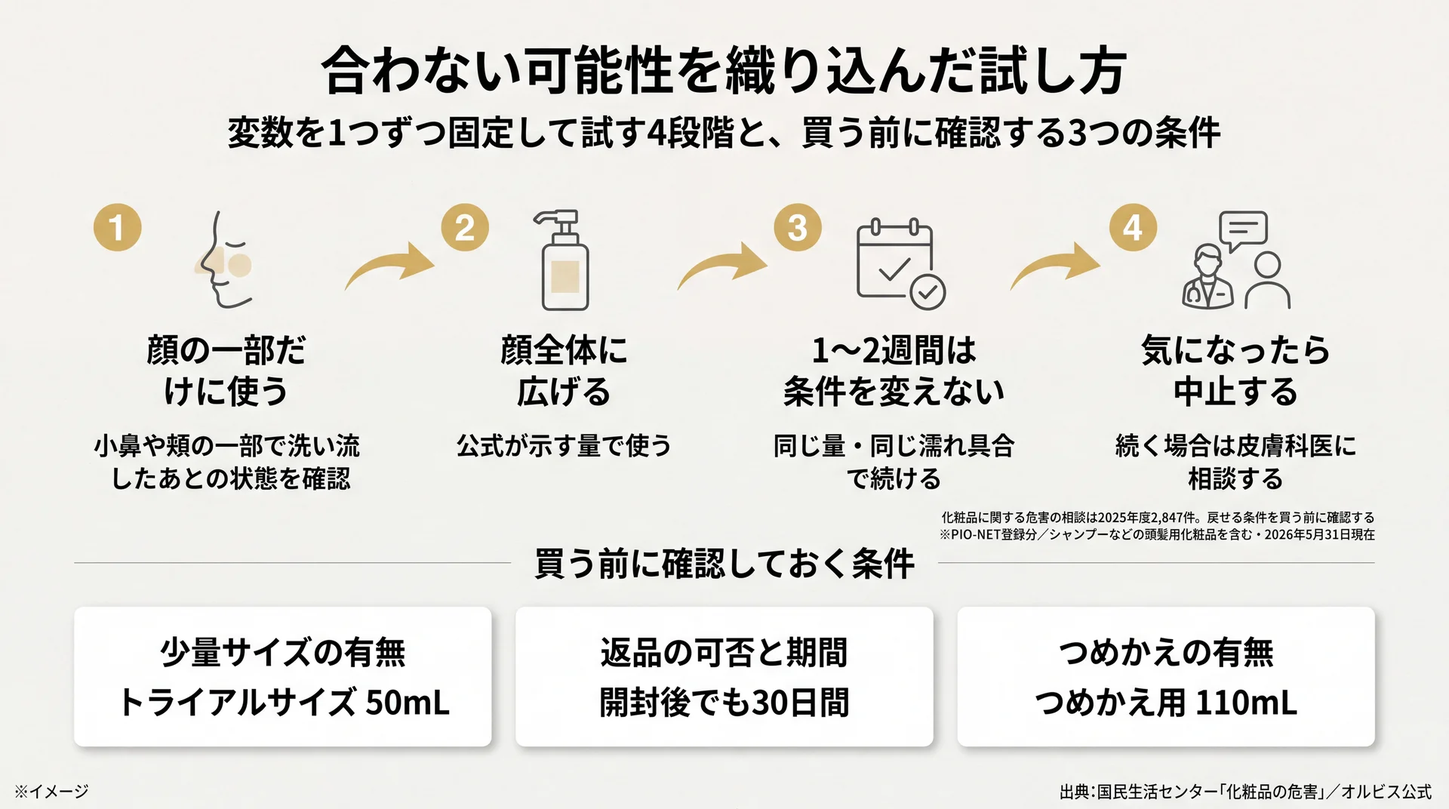
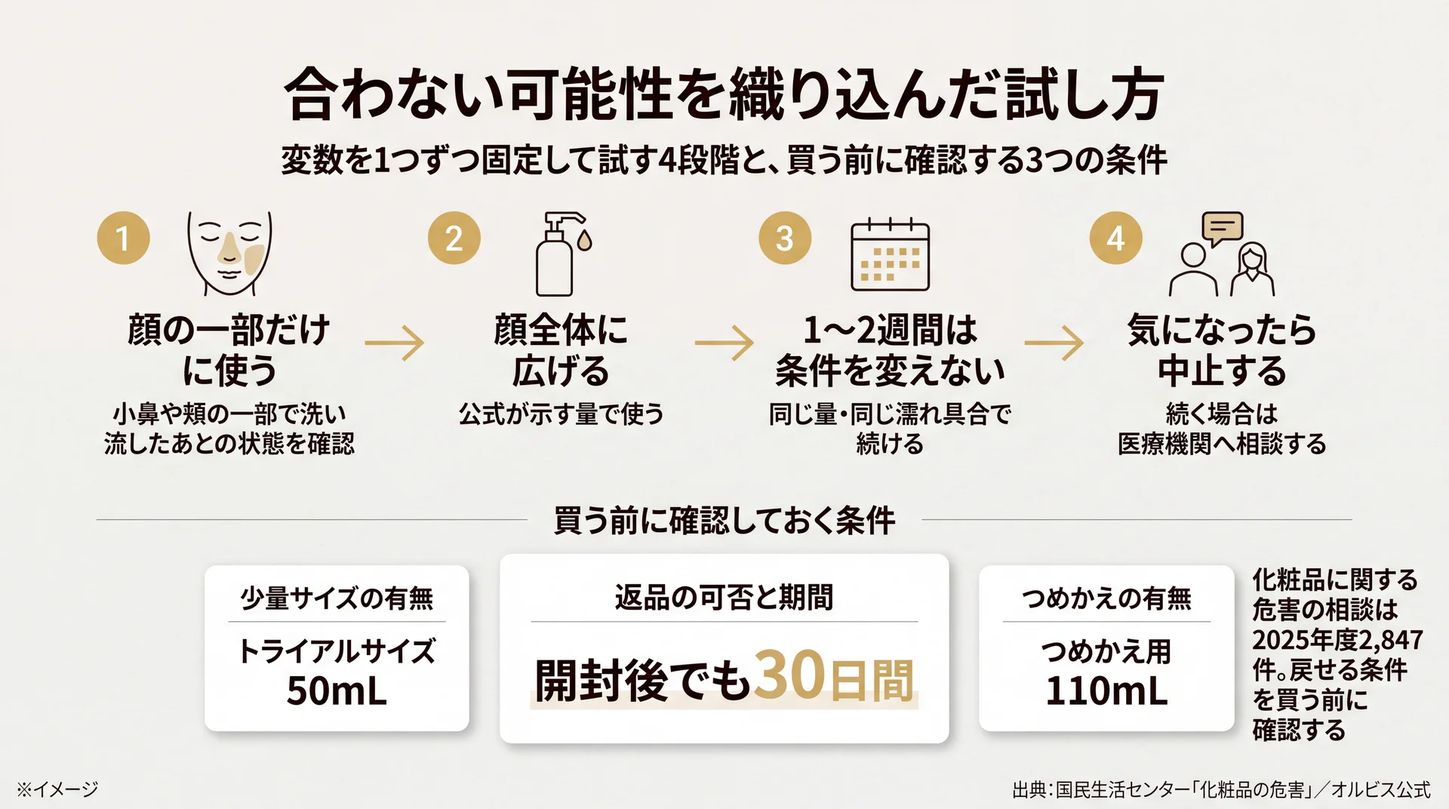
publish: orbis-cleansing-oil-pore-v3

diff --git a/2026/08/orbis-cleansing-oil-pore-v3.html b/2026/08/orbis-cleansing-oil-pore-v3.html
@@ -55,7 +55,7 @@
 .column-contact-block p{color:#fff;text-align:center;margin:24px 0;}
 .column-contact-block p:not(.btn-gra){font-size:20px;font-weight:700;line-height:1.5;}
 </style><h1 style="font-size:32px; font-weight:700; margin:24px 0 16px; padding-bottom:10px; border-bottom:1px solid #eaeef2; line-height:1.3;">毛穴悩み別クレンジングの選び方｜黒ずみ・開き・詰まりで変わる基準</h1>
-<p style="margin:14px 0; line-height:1.7;">毛穴が気になるときのクレンジングは、<strong>目立ち方のタイプ・剤形・使う量</strong>の3点で選び分けます。洗浄力の強さだけを基準にすると、同じ迷いの繰り返しになりがちです。この記事では、オルビス ザ クレンジング オイルを手がける立場から、自分で選び分けられる基準を順に整理します。</p>
+<p style="margin:14px 0; line-height:1.7;">毛穴が気になるときのクレンジングは、<strong>目立ち方のタイプ・剤形・使う量</strong>の3点で選び分けます。洗浄力の強さだけを基準にすると、同じ迷いを繰り返しやすくなります。この記事では、オルビス ザ クレンジング オイルを手がける立場から、自分で選び分けられる基準を順に整理します。</p>
 <!-- wp:group {"style":{"border":{"radius":"16px","color":"#E4C06C","style":"solid","width":"1px"},"spacing":{"padding":{"top":"24px","right":"20px","bottom":"24px","left":"20px"}}},"layout":{"type":"constrained"}} -->
 <div class="wp-block-group has-border-color" style="border-color:#E4C06C;border-style:solid;border-width:1px;border-radius:16px;padding-top:24px;padding-right:20px;padding-bottom:24px;padding-left:20px">
 <!-- wp:paragraph {"align":"center","style":{"typography":{"fontWeight":"700"}}} -->
@@ -71,9 +71,9 @@
 <!-- /wp:buttons -->
 </div>
 <!-- /wp:group --><h2 style="font-size:24px; font-weight:600; margin:32px 0 16px; padding-bottom:8px; border-bottom:1px solid #eaeef2; line-height:1.3;">毛穴の目立ち方は3タイプ｜まず自分がどれかを見立てる</h2>
-<p style="margin:14px 0; line-height:1.7;"><img src="https://shun-toda.github.io/html-publish/2026/08/orbis-cleansing-oil-pore-v3/h2_01_%E6%AF%9B%E7%A9%B4_3%E3%82%BF%E3%82%A4%E3%83%97.webp" alt="明るい場所での見え方と洗った直後の指先の感触の2問で、黒ずみ・開き・詰まりの3タイプと第一優先の軸に振り分ける判定フロー図" loading="lazy" style="max-width:100%; height:auto; display:block; margin:16px auto; border-radius:6px;" /><br><em>2つの手がかりで自分のタイプと優先すべき軸が決まる（当社整理）＊イメージ</em></p>
+<p style="margin:14px 0; line-height:1.7;"><img src="https://shun-toda.github.io/html-publish/2026/08/orbis-cleansing-oil-pore-v3/h2_01_%E6%AF%9B%E7%A9%B4_3%E3%82%BF%E3%82%A4%E3%83%97.webp" alt="明るい場所での見え方と洗った直後の指先の感触の2問で、黒ずみ・開き・詰まりの3タイプと第一優先の軸に振り分ける判定フロー図" loading="lazy" style="max-width:100%; height:auto; display:block; margin:16px auto; border-radius:6px;" /><br><em>2つの手がかりで自分のタイプと優先すべき軸が決まる（当社整理）</em></p>
 <p style="margin:14px 0; line-height:1.7;">毛穴の目立ち方は、<strong>色が濃く見える／影で凹んで見える／触るとざらつく</strong>の3つに分けて見立てます。同じ「毛穴が気になる」でも、見えている状態が違えばクレンジングに求める働きも変わります。見立ての手がかりは、明るい場所での見え方と、洗った直後の指先の感触の2つです。</p>
-<p style="margin:14px 0; line-height:1.7;">毛穴の種類を知っただけでは、選ぶ基準までは決まりません。選び直しても変化を感じられない状態が続くとき、ずれているのは製品そのものより「どのタイプに向けた一本を選んだか」のほうです。まずは3つのどれに当てはまるかを決めてから、選択の話に進んでください。</p>
+<p style="margin:14px 0; line-height:1.7;">上位の比較記事の多くは、毛穴の種類を並べたあとすぐに製品の紹介へ移ります。ただ、選び直しても変化を感じられない状態が続くとき、原因は製品そのものより「どのタイプに向けた一本を選んだか」がずれていることにあります。まずは3つのどれに当てはまるかを決めてから、選択の話に進んでください。</p>
 <div style="overflow-x:auto; margin:18px 0;"><table style="border-collapse:collapse; width:100%; font-size:14px;">
 <thead style="background:#f6f8fa;">
 <tr>
@@ -113,7 +113,7 @@
 <p style="margin:14px 0; line-height:1.7;">洗顔後に小鼻や顎を指の腹でなでたとき、細かい引っかかりを感じる状態です。見た目より触感で先に気づくことが多く、色の濃さと併発している場合もあります。</p>
 <p style="margin:14px 0; line-height:1.7;">このタイプでは、洗浄力の強さそのものより「どのくらいの頻度で、どの工程に役割を持たせるか」の設計が結果を左右します。必要な洗浄の水準と頻度の考え方は、<a href="/column/tsumari-keana-cleansing/" style="color:#0969da; text-decoration:none; border-bottom:1px solid #eaeef2;">詰まり毛穴に必要な洗浄力と頻度の考え方</a>で扱っているため、本記事では選択軸の話に絞ります。</p>
 <h2 style="font-size:24px; font-weight:600; margin:32px 0 16px; padding-bottom:8px; border-bottom:1px solid #eaeef2; line-height:1.3;">タイプ別に見るクレンジングの選択軸</h2>
-<p style="margin:14px 0; line-height:1.7;">タイプが変われば、優先すべき軸も入れ替わります。<strong>色が濃く見えるなら汚れとのなじみやすさ、影で凹んで見えるならうるおい保持、ざらつくなら工程の分担</strong>が第一優先です。同じ「毛穴*1に向く一本」でも、この順番が違えば選ぶ剤形は変わります。</p>
+<p style="margin:14px 0; line-height:1.7;">タイプが変われば、優先すべき軸も入れ替わります。<strong>色が濃く見えるなら汚れとのなじみやすさ、影で凹んで見えるならうるおい保持、ざらつくなら工程の分担</strong>が第一優先になります。同じ「毛穴*1に向く一本」でも、この順番が違えば選ぶ剤形は変わります。</p>
 <div style="overflow-x:auto; margin:18px 0;"><table style="border-collapse:collapse; width:100%; font-size:14px;">
 <thead style="background:#f6f8fa;">
 <tr>
@@ -145,7 +145,7 @@
 <p style="margin:14px 0; line-height:1.7;">汚れの正体そのもの（メイク・皮脂・古い角質のどれが主か）で落とし方を分ける考え方は、<a href="/column/keana-yogore-cleansing/" style="color:#0969da; text-decoration:none; border-bottom:1px solid #eaeef2;">毛穴汚れの正体ごとに落とし方がどう変わるか</a>にまとめています。</p>
 <h3 style="font-size:20px; font-weight:600; margin:24px 0 12px; line-height:1.3;">色が濃く見えるときの選択軸</h3>
 <p style="margin:14px 0; line-height:1.7;">油性の汚れとなじみやすい剤形を優先します。メイクや日焼け止めは油分を含むため、水性の剤形では表面に残りやすく、<strong>残った状態でこすると別の負担が増えます</strong>。</p>
-<p style="margin:14px 0; line-height:1.7;">一方で、なじみやすさだけを追いかけると洗い上がりが乾きやすくなりがちです。オルビスは、なじみやすさと洗い上がりのどちらかを我慢する構図こそ避けるべきだと考えています。成分の観点からの絞り込みは、<a href="/column/kurozumi-keana-cleansing/" style="color:#0969da; text-decoration:none; border-bottom:1px solid #eaeef2;">黒ずみが気になるときにクレンジングで見るべき成分軸</a>で詳しく扱っています。</p>
+<p style="margin:14px 0; line-height:1.7;">一方で、なじみやすさだけを追いかけると洗い上がりが乾きやすくなります。オルビスは、なじみやすさと洗い上がりのどちらかを我慢する構図こそ避けるべきだと考えています。成分の観点からの絞り込みは、<a href="/column/kurozumi-keana-cleansing/" style="color:#0969da; text-decoration:none; border-bottom:1px solid #eaeef2;">黒ずみが気になるときにクレンジングで見るべき成分軸</a>で詳しく扱っています。</p>
 <h3 style="font-size:20px; font-weight:600; margin:24px 0 12px; line-height:1.3;">影で凹んで見えるときの選択軸</h3>
 <p style="margin:14px 0; line-height:1.7;">うるおい保持を第一に置きます。<span style="background:linear-gradient(transparent 60%,#FFFF00 60%)"><strong>このタイプで洗浄力を上げても、見え方の改善につながりにくい</strong></span>ためです。</p>
 <p style="margin:14px 0; line-height:1.7;">見るべきは「洗い上がりに乾きを感じにくいか」「広げるときに指が引っかからないか」の2点になります。テクスチャーが硬く、肌の上で伸ばすのに力が要るものは、こすらずに扱うのが難しくなります。手に取ったときに軽く広がるかどうかを、店頭や少量サイズで確かめてから決めてください。</p>
@@ -153,8 +153,8 @@
 <p style="margin:14px 0; line-height:1.7;">クレンジング1本にすべてを担わせず、<strong>洗顔工程との役割分担</strong>で考えます。1回あたりの洗浄力を上げるより、無理なく続けられる頻度に落とし込むほうが運用しやすくなります。</p>
 <p style="margin:14px 0; line-height:1.7;">具体的には、毎日はクレンジングと洗顔料の基本の組み合わせで整え、ざらつきが気になる日だけ洗顔工程側を変える形です。この分担は次章の剤形選びにも直結します。</p>
 <h2 style="font-size:24px; font-weight:600; margin:32px 0 16px; padding-bottom:8px; border-bottom:1px solid #eaeef2; line-height:1.3;">剤形10タイプの向き・不向きを4軸で比べる</h2>
-<p style="margin:14px 0; line-height:1.7;"><img src="https://shun-toda.github.io/html-publish/2026/08/orbis-cleansing-oil-pore-v3/h2_02_%E5%89%A4%E5%BD%A2_4%E8%BB%B8.webp" alt="洗浄力とうるおい保持の2軸に剤形10タイプを配置し、毎日の一本の候補と一時的な使用にとどめる剤形を分けた分布図" loading="lazy" style="max-width:100%; height:auto; display:block; margin:16px auto; border-radius:6px;" /><br><em>落ちにくいメイクが日常的にあるなら右列のオイル・バーム、左下のウォーターとシートは洗い流せない場面だけの一時的な選択肢（当社が4軸の定義に沿って整理した相対評価）＊イメージ</em></p>
-<p style="margin:14px 0; line-height:1.7;">剤形は洗浄力の強弱だけでなく、<strong>うるおい保持・使用条件・続けやすさ</strong>を加えた4軸で比べると絞り込めます。洗浄力は「油性の汚れを落とす力」、うるおい保持は「洗い上がりの乾きにくさ」、使用条件は「濡れた手やまつ毛エクステ*5など使える場面の広さ」、続けやすさは「毎日の手間と量の調整のしやすさ」を指します。</p>
+<p style="margin:14px 0; line-height:1.7;"><img src="https://shun-toda.github.io/html-publish/2026/08/orbis-cleansing-oil-pore-v3/h2_02_%E5%89%A4%E5%BD%A2_4%E8%BB%B8.webp" alt="洗浄力とうるおい保持の2軸に剤形10タイプを配置し、毎日の一本の候補と一時的な使用にとどめる剤形を分けた分布図" loading="lazy" style="max-width:100%; height:auto; display:block; margin:16px auto; border-radius:6px;" /><br><em>右列がオイル・バーム、左下のウォーターとシートは洗い流せない場面向け（当社が4軸の定義に沿って整理した相対評価）</em></p>
+<p style="margin:14px 0; line-height:1.7;">剤形は洗浄力の強弱だけでなく、<strong>うるおい保持・使用条件・続けやすさ</strong>を加えた4軸で比べると絞り込めます。洗浄力は「油性の汚れを落とす力」、うるおい保持は「洗い上がりの乾きにくさ」、使用条件は「濡れた手やまつ毛エクステなど使える場面の広さ」、続けやすさは「毎日の手間と量の調整のしやすさ」を指します。</p>
 <h3 style="font-size:20px; font-weight:600; margin:24px 0 12px; line-height:1.3;">剤形10タイプ×4軸マッチング表</h3>
 <p style="margin:14px 0; line-height:1.7;">◎○△は当社が上記4軸の定義に沿って整理した相対評価であり、個々の製品ではなく剤形の一般的な設計傾向を示すものです。</p>
 <div style="overflow-x:auto; margin:18px 0;"><table style="border-collapse:collapse; width:100%; font-size:14px;">
@@ -267,40 +267,40 @@
 <p style="margin:14px 0; line-height:1.7;">洗い上がりの乾きを避けたい場合は、<strong>クリーム・ミルク・水性ジェル</strong>が候補です。水分比率が高く、洗浄の勢いが穏やかな設計になっています。</p>
 <p style="margin:14px 0; line-height:1.7;">ただし、この3つは濃いメイクが残りやすいという裏返しを持ちます。残りを警戒して二度洗いを重ねると、結果的に負担が増えるため本末転倒です。<span style="color:red"><strong>メイクの濃さに対して洗浄力が足りない剤形を選ぶことは、うるおい保持の面でも得策ではありません</strong></span>。うるおい保持を優先するなら、メイク側の濃さも合わせて見直すのが現実的です。</p>
 <h3 style="font-size:20px; font-weight:600; margin:24px 0 12px; line-height:1.3;">時間と手軽さを優先するなら</h3>
-<p style="margin:14px 0; line-height:1.7;">リキッド・油性ジェル・ウォーター・シートは、手間を減らしたい場面で選ばれます。とくにリキッドは水性で油分が少なく、まつ毛エクステ*5に対応した製品が多い剤形です。</p>
+<p style="margin:14px 0; line-height:1.7;">リキッド・油性ジェル・ウォーター・シートは、手間を減らしたい場面で選ばれます。とくにリキッドは水性で油分が少なく、まつ毛エクステに対応した製品が多い剤形です。</p>
 <p style="margin:14px 0; line-height:1.7;">一方、ウォーターとシートはコットンや不織布で拭き取るため、こする動作が避けにくくなります。<strong>常用ではなく、洗い流せない場面での一時的な選択肢</strong>として位置づけてください。毎日の一本を選ぶ場面では、この2つは候補から外して考えるほうが判断が早くなります。</p>
 <h3 style="font-size:20px; font-weight:600; margin:24px 0 12px; line-height:1.3;">クレンジング単体で抱えこまない選択肢</h3>
-<p style="margin:14px 0; line-height:1.7;">10番目に挙げた「酵素・パウダー洗顔との併用枠」は、剤形そのものの比較からは抜け落ちやすい選択肢です。クレンジングの洗浄力を上げるのではなく、<strong>ざらつきが気になる日だけ洗顔工程側に役割を移す</strong>考え方になります。</p>
-<p style="margin:14px 0; line-height:1.7;">この枠を持っておくと、毎日のクレンジングを強い方向へ振らずに済みます。オルビスでも、公式の使用ステップではクレンジングのあとに洗顔料を使う流れを案内しており、W洗顔が必要な設計です。1本ですべてを終わらせないほうが、日ごとの調整はしやすくなります。</p>
+<p style="margin:14px 0; line-height:1.7;">10番目に挙げた「酵素・パウダー洗顔との併用枠」は、剤形の比較記事ではあまり扱われない選択肢です。クレンジングの洗浄力を上げるのではなく、<strong>ざらつきが気になる日だけ洗顔工程側に役割を移す</strong>考え方になります。</p>
+<p style="margin:14px 0; line-height:1.7;">この枠を持っておくと、毎日のクレンジングを強い方向へ振らずに済みます。オルビスでも、公式の使用ステップでクレンジングのあとに洗顔料を使う流れを案内しており、W洗顔が必要な設計であることを明記しています（<a href="https://www.orbis.co.jp/small/1201053/" style="color:#0969da; text-decoration:none; border-bottom:1px solid #eaeef2;">オルビス公式</a>）。1本ですべてを終わらせないほうが、日ごとの調整はしやすくなります。</p>
 <h3 style="font-size:20px; font-weight:600; margin:24px 0 12px; line-height:1.3;">オルビスの見解｜洗浄力を上げる方向で設計していない理由</h3>
 <p style="margin:14px 0; line-height:1.7;">一般論として、洗浄力が高いほど油性の汚れは落ちやすくなります。<strong>だからこそ、洗浄力を上げる方向ではなく「落ちた汚れを肌へ戻さない」方向で設計しました。</strong></p>
-<p style="margin:14px 0; line-height:1.7;">オルビス ザ クレンジング オイルは、ポーラ・オルビスグループ独自の超微粒子<em>3技術を採用し、洗い流す際に汚れが肌へ再付着しにくい設計としています。この技術は日本初</em>4です。処方面では、マスカラ溶解オイル（カプリリルメチコン＝基剤）と角栓溶解オイル（炭酸ジカプリリル＝基剤）の2つを配合しています。強くこすらずに落とすための構成であり、洗浄力の数値を競うための構成ではありません。</p>
+<p style="margin:14px 0; line-height:1.7;">オルビス ザ クレンジング オイルは、ポーラ・オルビスグループのポーラ化成が開発した超微粒子<em>3の技術を採用し、その超微粒子が汚れをはね返す水の膜をつくることで、洗い流した瞬間に汚れが肌へ再付着することを防ぐ設計としています（<a href="https://www.orbis.co.jp/small/1201053/" style="color:#0969da; text-decoration:none; border-bottom:1px solid #eaeef2;">オルビス公式</a>）。この技術は日本初</em>4です。処方面では、マスカラ溶解オイル（カプリリルメチコン＝基剤）と角栓溶解オイル（炭酸ジカプリリル＝基剤）の2つを配合しています。強くこすらずに落とすための構成であり、洗浄力の数値を競うための構成ではありません。</p>
 <h3 style="font-size:20px; font-weight:600; margin:24px 0 12px; line-height:1.3;">剤形を決めたあとの確認ポイント</h3>
 <p style="margin:14px 0; line-height:1.7;"><strong>＼ 迷ったときの決め方 ／</strong> メイクの濃さで剤形を決め、洗い上がりの好みで同じ剤形内の候補を絞り、使用条件で最後の1本に決めてください。</p>
-<p style="margin:14px 0; line-height:1.7;"><strong>Recommend Item</strong><br>オルビス ザ クレンジング オイル<br>濡れた手でも使え、まつ毛エクステ対応テスト済*5の設計です。無香料・無着色・アルコールフリーで、酸化しやすい油分は使っていません。剤形をオイルに決めた段階で、使用条件の広さを重視したい方の候補になります。</p>
+<p style="margin:14px 0; line-height:1.7;"><strong>Recommend Item</strong><br>オルビス ザ クレンジング オイル<br>濡れた手でも使え、まつ毛エクステ対応テスト済*5の設計です。無香料・無着色・アルコールフリーで、酸化しやすい油分は使っていません。剤形をオイルに決めた段階で、使用条件の広さを重視したい方の候補になります。<br>※ノンコメドジェニックテスト済（すべての人にコメド＝ニキビのもとができないというわけではありません）／アレルギーテスト済＝全ての方にアレルギーが起こらないということではありません。</p>
 <p style="margin:14px 0; line-height:1.7;">なお「オイルは毛穴によくない」という言われ方については、<a href="/column/cleansing-oil-yokunai/" style="color:#0969da; text-decoration:none; border-bottom:1px solid #eaeef2;">「クレンジングオイルはよくない」という通説の検証</a>で個別に扱っています。</p>
 <h2 style="font-size:24px; font-weight:600; margin:32px 0 16px; padding-bottom:8px; border-bottom:1px solid #eaeef2; line-height:1.3;">同じ一本でも落ち方が変わる｜量・手の濡れ具合・メイクの種類</h2>
 <p style="margin:14px 0; line-height:1.7;"><img src="https://shun-toda.github.io/html-publish/2026/08/orbis-cleansing-oil-pore-v3/h2_03_%E9%87%8F_%E6%89%8B_%E3%83%A1%E3%82%A4%E3%82%AF.webp" alt="公式クチコミ原文120件の言及テーマ別件数。落ちない・残る13件に対し使用量14件・濡れた手16件が上回る当社集計" loading="lazy" style="max-width:100%; height:auto; display:block; margin:16px auto; border-radius:6px;" /><br><em>落ち方の言及は量や手の状態とセットで語られている（出典: オルビス公式クチコミを基に当社集計／N=120・2026年8月4日時点）</em></p>
-<p style="margin:14px 0; line-height:1.7;">同じ製品でも、<strong>使う量・手の濡れ具合・メイクの種類</strong>によって落ち方は変わります。オルビスの公式使用方法では適量を2プッシュ程度とし、落ちにくいメイクを落とす際は乾いた手にとると明記しています。選ぶ段階で、この3つを自分の生活に当てはめられるかを確認してください。</p>
-<p style="margin:14px 0; line-height:1.7;">製品ごとの差だけを見比べていると、「同じ製品でも使い方で結果が変わる」という前提が抜け落ちます。買い替えを繰り返しても変化がないときに見直す余地があるのは、この3つです。</p>
+<p style="margin:14px 0; line-height:1.7;">同じ製品でも、<strong>使う量・手の濡れ具合・メイクの種類</strong>によって落ち方は変わります。オルビスの公式使用方法では適量を2プッシュ程度とし、落ちにくいメイクを落とす際は乾いた手にとると明記しています（<a href="https://www.orbis.co.jp/small/1201053/" style="color:#0969da; text-decoration:none; border-bottom:1px solid #eaeef2;">オルビス公式</a>）。選ぶ段階で、この3つを自分の生活に当てはめられるかを確認してください。</p>
+<p style="margin:14px 0; line-height:1.7;">比較記事の多くは、この3変数を扱いません。製品ごとの差だけを並べる構成では、「同じ製品でも使い方で結果が変わる」という前提が入りにくいためです。ただ、買い替えを繰り返しても変化がないとき、見直すべきなのはこの3つであることが少なくありません。</p>
 <h3 style="font-size:20px; font-weight:600; margin:24px 0 12px; line-height:1.3;">使う量</h3>
-<p style="margin:14px 0; line-height:1.7;">クレンジングは、量が足りないと肌の上で伸びきらず、こする動作が増えます。公式に示している適量は<strong>2プッシュ程度</strong>で、これは手のひら全体に広げられる量を基準にしたものです。</p>
+<p style="margin:14px 0; line-height:1.7;">クレンジングは、量が足りないと肌の上で伸びきらず、こする動作が増えます。公式に示している適量は<strong>2プッシュ程度</strong>で、これは手のひら全体に広げられる量を基準にしたものです（<a href="https://www.orbis.co.jp/small/1201053/" style="color:#0969da; text-decoration:none; border-bottom:1px solid #eaeef2;">オルビス公式</a>）。</p>
 <p style="margin:14px 0; line-height:1.7;">公式クチコミにも、量を変えたことで落ち方の記述が変わった投稿があります。</p>
 <blockquote style="border-left:4px solid #d0d7de; padding:6px 16px; margin:18px 0; color:#57606a; background:#f6f8fa;">
-<p style="margin:14px 0; line-height:1.7;">初めて使いました。ワンプッシュで使ったら何となくメイクが残っている感じがして使用感は悪かったです。２プッシュにしてみたらちゃんと落ちて洗い上がりも良かったです。（50代後半・混合肌）</p>
+<p style="margin:14px 0; line-height:1.7;">ワンプッシュで使ったら何となくメイクが残っている感じがして使用感は悪かったです。２プッシュにしてみたらちゃんと落ちて洗い上がりも良かったです。（50代後半・混合肌）</p>
 </blockquote>
 <p style="margin:14px 0; line-height:1.7;">※<a href="https://www.orbis.co.jp/review/small/1201053/00/" style="color:#0969da; text-decoration:none; border-bottom:1px solid #eaeef2;">オルビスみんなの口コミ</a>より引用／※個人の感想であり効果を保証するものではありません</p>
 <p style="margin:14px 0; line-height:1.7;">新しい一本を試すときは、<strong>まず公式が示す量で使ってから判断する</strong>ことをおすすめします。量を下げた状態での評価は、製品の評価にならないためです。</p>
 <h3 style="font-size:20px; font-weight:600; margin:24px 0 12px; line-height:1.3;">手の濡れ具合</h3>
-<p style="margin:14px 0; line-height:1.7;">濡れた手で使えるかどうかは、入浴中にクレンジングをする方にとって選択の分かれ目になります。オルビス ザ クレンジング オイルは濡れた手でも使える設計ですが、公式の使用方法では<strong>落ちにくいメイクは乾いた手にとる</strong>という条件分岐を示しています。</p>
+<p style="margin:14px 0; line-height:1.7;">濡れた手で使えるかどうかは、入浴中にクレンジングをする方にとって選択の分かれ目になります。オルビス ザ クレンジング オイルは濡れた手でも使える設計ですが、公式の使用方法では<strong>落ちにくいメイクは乾いた手にとる</strong>という条件分岐を示しています（<a href="https://www.orbis.co.jp/small/1201053/" style="color:#0969da; text-decoration:none; border-bottom:1px solid #eaeef2;">オルビス公式</a>）。</p>
 <p style="margin:14px 0; line-height:1.7;">この分岐は、公式クチコミの中でも運用の工夫として現れています。</p>
 <blockquote style="border-left:4px solid #d0d7de; padding:6px 16px; margin:18px 0; color:#57606a; background:#f6f8fa;">
 <p style="margin:14px 0; line-height:1.7;">濡れた手での使用では部分的に残っているけどマツエクがおちてる？残念でした。（中略）現在⇒入浴前の完全に乾いている手に③プッシュを乾いた顔に優しくなじませてお風呂場へ（50代前半・乾性肌）</p>
 </blockquote>
-<p style="margin:14px 0; line-height:1.7;">※<a href="https://www.orbis.co.jp/review/reviews/pc_index/1201053/00/page:3/smallcategoryid:1201053/ssmallcategoryid:00/anchor:htmlBody" style="color:#0969da; text-decoration:none; border-bottom:1px solid #eaeef2;">オルビスみんなの口コミ</a>より引用／※個人の感想であり効果を保証するものではありません</p>
+<p style="margin:14px 0; line-height:1.7;">※<a href="https://www.orbis.co.jp/review/small/1201053/00/" style="color:#0969da; text-decoration:none; border-bottom:1px solid #eaeef2;">オルビスみんなの口コミ</a>より引用／※個人の感想であり効果を保証するものではありません</p>
 <p style="margin:14px 0; line-height:1.7;">選ぶ段階では、「自分は入浴中に落とすのか、洗面所で落とすのか」を先に決めてください。<span style="background:linear-gradient(transparent 60%,#FFFF00 60%)"><strong>この習慣が決まっていないと、同じ製品でも日によって結果が変わります</strong></span>。</p>
 <h3 style="font-size:20px; font-weight:600; margin:24px 0 12px; line-height:1.3;">メイクの種類</h3>
-<p style="margin:14px 0; line-height:1.7;">ウォータープルーフ処方や、密着性の高いアイメイクは、同じ剤形でも落ちにくさに差が出ます。オルビス ザ クレンジング オイルはウォータープルーフメイクに対応した設計ですが、公式クチコミには落としきれなかったとする★3の投稿も掲載されています（「ウォータープルーフのマスカラは全然落とせません。」40代前半・超乾性肌。※<a href="https://www.orbis.co.jp/review/reviews/pc_index/1201053/00/page:6/smallcategoryid:1201053/ssmallcategoryid:00/anchor:htmlBody" style="color:#0969da; text-decoration:none; border-bottom:1px solid #eaeef2;">オルビスみんなの口コミ</a>より引用／※個人の感想であり効果を保証するものではありません）。</p>
+<p style="margin:14px 0; line-height:1.7;">ウォータープルーフ処方や、密着性の高いアイメイクは、同じ剤形でも落ちにくさに差が出ます。オルビス ザ クレンジング オイルはウォータープルーフメイクに対応した設計ですが、公式クチコミには落としきれなかったとする★3の投稿も掲載されています（「ウォータープルーフのマスカラは全然落とせません。」40代前半・超乾性肌。※<a href="https://www.orbis.co.jp/review/small/1201053/00/" style="color:#0969da; text-decoration:none; border-bottom:1px solid #eaeef2;">オルビスみんなの口コミ</a>より引用／※個人の感想であり効果を保証するものではありません）。</p>
 <p style="margin:14px 0; line-height:1.7;">このばらつきを織り込むなら、<strong>目元だけ専用のリムーバーを併用する前提で顔全体の一本を選ぶ</strong>という決め方が現実的です。<span style="color:red"><strong>顔全体の一本に目元の性能まで求めると、選択肢が過度に狭くなります</strong></span>。</p>
 <h3 style="font-size:20px; font-weight:600; margin:24px 0 12px; line-height:1.3;">公式クチコミ原文120件で何が語られているか（当社独自集計）</h3>
 <p style="margin:14px 0; line-height:1.7;">オルビス公式クチコミから原文を保存した120件を対象に、どのテーマに言及があるかを投稿単位で数えました。</p>
@@ -340,7 +340,7 @@
 <td style="border:1px solid #d0d7de; padding:8px 12px; text-align:right;">13件</td>
 </tr>
 </tbody></table></div>
-<p style="margin:14px 0; line-height:1.7;"><strong>調査方法</strong>｜対象: オルビス公式「みんなのクチコミ」に掲載された本商品のクチコミのうち、新しい順に原文を保存した投稿／N数: 120件（サイト表示の総件数789件のうち。星の内訳は★5:84・★4:21・★3:2・★2:5・★1:8）／期間: 2026年8月4日時点の掲載分／集計方法: 各投稿のタイトルと本文にテーマ語（例:「毛穴・角栓・黒ずみ」なら毛穴／角栓／黒ずみ、「洗い上がりの乾き・つっぱり」ならつっぱり／乾燥／乾き／ガビガビ）が1回以上出現するかを判定し、投稿単位で計数（1投稿につき各テーマ最大1回）／データ出典: <a href="https://www.orbis.co.jp/review/small/1201053/00/" style="color:#0969da; text-decoration:none; border-bottom:1px solid #eaeef2;">オルビス公式クチコミ</a></p>
+<p style="margin:14px 0; line-height:1.7;"><strong>調査方法</strong>｜対象: オルビス公式「みんなのクチコミ」に掲載された本商品のクチコミのうち、新しい順に原文を保存した投稿／N数: 120件（サイト表示の総件数789件のうち。星の内訳は★5:84・★4:21・★3:2・★2:5・★1:8）／期間: 2026年8月4日時点の掲載分／集計方法: 各投稿の原文にテーマ語が1回以上出現するかを判定し、投稿単位で計数（1投稿につき各テーマ最大1回）／データ出典: <a href="https://www.orbis.co.jp/review/small/1201053/00/" style="color:#0969da; text-decoration:none; border-bottom:1px solid #eaeef2;">オルビス公式クチコミ</a></p>
 <p style="margin:14px 0; line-height:1.7;">注目したいのは、<strong>落ち方に触れた13件が、洗浄力の不足ではなく量や手の状態とセットで語られている</strong>点です。低評価側には、洗浄力の強さが自分には合わなかったという指摘もあり、合う・合わないが分かれる境目が使い方の側にも存在することを示しています。</p>
 <h3 style="font-size:20px; font-weight:600; margin:24px 0 12px; line-height:1.3;">オルビスの見解｜量と手の状態を先にそろえる理由</h3>
 <p style="margin:14px 0; line-height:1.7;">一般論として、クレンジングの相性は人によって異なります。<strong>だからこそ、公式の使用方法に「適量＝2プッシュ程度」と「落ちにくいメイクは乾いた手にとる」を明記し、量と手の状態をそろえてから判断していただく運用をとっています。</strong></p>
@@ -361,7 +361,7 @@
 <!-- /wp:buttons -->
 </div>
 <!-- /wp:group --><h2 style="font-size:24px; font-weight:600; margin:32px 0 16px; padding-bottom:8px; border-bottom:1px solid #eaeef2; line-height:1.3;">クレンジングで変えられる範囲と変えられない範囲</h2>
-<p style="margin:14px 0; line-height:1.7;">洗浄で変えられるのは<strong>毛穴に入り込んだ汚れの部分</strong>であり、毛穴の大きさや形そのものは対象外です。化粧品が表示できる効能効果は、厚生労働省の通知（薬食発0721第1号）で56項目に限られており、クレンジングに関わるのは「汚れをおとすことにより皮膚を清浄にする」という範囲になります（<a href="https://www.mhlw.go.jp/file/06-Seisakujouhou-11120000-Iyakushokuhinkyoku/kesyouhin_hanni_20111.pdf" style="color:#0969da; text-decoration:none; border-bottom:1px solid #eaeef2;">厚生労働省「化粧品の効能の範囲」</a>）。</p>
+<p style="margin:14px 0; line-height:1.7;">洗浄で変えられるのは<strong>毛穴に入り込んだ汚れの部分</strong>であり、毛穴の大きさや形そのものは対象外です。化粧品が表示できる効能効果は、厚生労働省の通知で56項目に限られており、クレンジングに関わるのは「汚れをおとすことにより皮膚を清浄にする」という範囲になります（<a href="https://www.mhlw.go.jp/file/06-Seisakujouhou-11120000-Iyakushokuhinkyoku/kesyouhin_hanni_20111.pdf" style="color:#0969da; text-decoration:none; border-bottom:1px solid #eaeef2;">厚生労働省「化粧品の効能の範囲」</a>）。</p>
 <div style="overflow-x:auto; margin:18px 0;"><table style="border-collapse:collapse; width:100%; font-size:14px;">
 <thead style="background:#f6f8fa;">
 <tr>
@@ -386,24 +386,24 @@
 <td style="border:1px solid #d0d7de; padding:8px 12px;">色そのものに由来する見え方</td>
 </tr>
 </tbody></table></div>
-<p style="margin:14px 0; line-height:1.7;">オルビスは、この枠の外にある「消える」「なくなる」といった言葉で語られる情報こそが、選ぶ側の期待値をゆがめている原因だと考えています。だから、まず変えられる範囲と変えられない範囲を分けて判断することが、選び直しを減らす近道になります。</p>
+<p style="margin:14px 0; line-height:1.7;">オルビスは、この枠の外にある「消える」「なくなる」といった言葉で語られる情報こそが、読者の期待値をゆがめている原因だと考えています。だから、まず変えられる範囲と変えられない範囲を分けて判断することが、選び直しを減らす近道になります。</p>
 <h3 style="font-size:20px; font-weight:600; margin:24px 0 12px; line-height:1.3;">広告の言葉をそのまま選定基準にしない</h3>
-<p style="margin:14px 0; line-height:1.7;">商品の説明文には、効能の範囲内であることを示す注記が付いていることがあります。オルビスの公式ページでも、「毛穴<em>1」や「くすみ</em>2」といった語には、その言葉が何を指すかを示す注記を添えています（<a href="https://www.orbis.co.jp/small/1201053/" style="color:#0969da; text-decoration:none; border-bottom:1px solid #eaeef2;">オルビス公式</a>）。</p>
-<p style="margin:14px 0; line-height:1.7;"><span style="color:red"><strong>注記は制約ではなく、その言葉が何を指しているかの定義です</strong></span>。読み飛ばさずに確認すると、同じ「毛穴*1に着目」という表現でも、洗浄の話をしているのか、うるおいでキメを整える話をしているのかが判別できます。<span style="background:linear-gradient(transparent 60%,#FFFF00 60%)"><strong>選ぶときは、キャッチコピーではなく注記のほうを読んでください</strong></span>。</p>
+<p style="margin:14px 0; line-height:1.7;">商品の説明文には、効能の範囲内であることを示す注記が付いていることがあります。オルビスの公式ページでも、「毛穴」には「洗浄により毛穴を目立たなくする」、「くすみ*2」には「乾燥や汚れによる」といった注記を添えています（<a href="https://www.orbis.co.jp/small/1201053/" style="color:#0969da; text-decoration:none; border-bottom:1px solid #eaeef2;">オルビス公式</a>）。</p>
+<p style="margin:14px 0; line-height:1.7;"><span style="color:red"><strong>注記は制約ではなく、その言葉が何を指しているかの定義です</strong></span>。読み飛ばさずに確認すると、同じ「毛穴に着目」という表現でも、洗浄の話をしているのか、うるおいでキメを整える話をしているのかが判別できます。<span style="background:linear-gradient(transparent 60%,#FFFF00 60%)"><strong>選ぶときは、キャッチコピーではなく注記のほうを読んでください</strong></span>。</p>
 <h3 style="font-size:20px; font-weight:600; margin:24px 0 12px; line-height:1.3;">オルビスの見解｜期待値を先に分ける理由</h3>
 <p style="margin:14px 0; line-height:1.7;">一般論として、洗浄は毛穴*1の目立ち方に関わります。<strong>だからこそ、洗浄で変えられる範囲と変えられない範囲を先に分けて示すことを、選び方の出発点だと考えています。</strong></p>
 <p style="margin:14px 0; line-height:1.7;">範囲を分けずに一本を選ぶと、変えられない部分の不満が製品への不満として積み上がり、買い替えが止まらなくなります。先に線を引いておくほうが、結果的に納得のいく一本にたどり着きやすくなります。</p>
 <h2 style="font-size:24px; font-weight:600; margin:32px 0 16px; padding-bottom:8px; border-bottom:1px solid #eaeef2; line-height:1.3;">合わない可能性を織り込んだ試し方</h2>
-<p style="margin:14px 0; line-height:1.7;"><img src="https://shun-toda.github.io/html-publish/2026/08/orbis-cleansing-oil-pore-v3/h2_04_%E8%A9%A6%E3%81%97%E6%96%B9_%E6%9D%A1%E4%BB%B6.webp" alt="顔の一部から始める4段階の試用手順と、購入前に確認する少量サイズ50mL・返品30日間・つめかえ110mLの3条件をまとめた図" loading="lazy" style="max-width:100%; height:auto; display:block; margin:16px auto; border-radius:6px;" /><br><em>変数を1つずつ固定して試すと、合わなかった条件を後から特定できる。買う前に少量サイズ・返品期間・つめかえの3点を確認（出典: 国民生活センター「化粧品の危害」／オルビス公式）＊イメージ</em></p>
-<p style="margin:14px 0; line-height:1.7;">新しい一本は、<strong>合わない可能性を前提に少量・部分から試す</strong>のが現実的です。国民生活センターに寄せられた化粧品の危害に関する相談は、2025年度で2,847件でした（<a href="https://www.kokusen.go.jp/soudan_topics/data/cosmetic_harm.html" style="color:#0969da; text-decoration:none; border-bottom:1px solid #eaeef2;">国民生活センター「化粧品の危害」</a>。PIO-NET登録分・2026年5月31日現在の集計で、シャンプーなどの頭髪用化粧品も含む件数です）。買う前に、戻せる条件を確認しておいてください。</p>
-<p style="margin:14px 0; line-height:1.7;">同ページによると、相談の中には「お試しのつもりで購入した化粧品を使用したところ、皮膚障害が生じたので解約を申し出たら、定期購入が条件だとわかった」という内容が多く寄せられているとされています。オルビスはこの数字を、特定の製品の危険性ではなく<strong>「合わなかったときに戻せない買い方」で困りごとが生じている構造の表れ</strong>だと考えています。だからこそ、毛穴*1に向けて洗浄設計を変える一本ほど、試し方と買い方をセットで決めておくと遠回りを避けられます。</p>
+<p style="margin:14px 0; line-height:1.7;"><img src="https://shun-toda.github.io/html-publish/2026/08/orbis-cleansing-oil-pore-v3/h2_04_%E8%A9%A6%E3%81%97%E6%96%B9_%E6%9D%A1%E4%BB%B6.webp" alt="顔の一部から始める4段階の試用手順と、購入前に確認する少量サイズ50mL・返品30日間・つめかえ110mLの3条件をまとめた図" loading="lazy" style="max-width:100%; height:auto; display:block; margin:16px auto; border-radius:6px;" /><br><em>変数を1つずつ固定して試す手順と、買う前に見る3条件（出典: 国民生活センター「化粧品の危害」／オルビス公式）</em></p>
+<p style="margin:14px 0; line-height:1.7;">新しい一本は、<strong>合わない可能性を前提に少量・部分から試す</strong>のが現実的です。国民生活センターに寄せられた化粧品に関する危害の相談は、2025年度で2,847件でした（<a href="https://www.kokusen.go.jp/soudan_topics/data/cosmetic_harm.html" style="color:#0969da; text-decoration:none; border-bottom:1px solid #eaeef2;">国民生活センター「化粧品の危害」</a>／2026年7月31日更新。頭髪用化粧品なども含む件数です）。買う前に、戻せる条件を確認しておいてください。</p>
+<p style="margin:14px 0; line-height:1.7;">同ページによると、相談の中には「お試しのつもりで購入したところ皮膚障害が生じ、解約を申し出たら定期購入が条件だとわかった」という内容が多く寄せられているとされています。オルビスはこの数字を、特定の製品の危険性ではなく<strong>「合わなかったときに戻せない買い方」で困りごとが生じている構造</strong>として受け止めています。だからこそ、毛穴*1に向けて洗浄設計を変える一本ほど、試し方と買い方をセットで決めることが読者の負担を減らします。</p>
 <h3 style="font-size:20px; font-weight:600; margin:24px 0 12px; line-height:1.3;">試すときの手順</h3>
 <p style="margin:14px 0; line-height:1.7;">肌に触れる範囲を段階的に広げます。順番は次のとおりです。</p>
 <ol style="margin:14px 0; padding-left:1.6em; line-height:1.7;">
 <li style="margin:4px 0;">初回は<strong>顔の一部（小鼻や頬の一部）だけ</strong>に使い、洗い流したあとの状態を確認する</li>
 <li style="margin:4px 0;">問題がなければ翌日から顔全体に広げ、公式が示す量で使う</li>
 <li style="margin:4px 0;">1〜2週間は同じ量・同じ手の状態で続け、条件を変えずに様子を見る</li>
-<li style="margin:4px 0;">途中で肌の状態が気になったときは使用を中止し、症状が続く場合は皮膚科医に相談する</li>
+<li style="margin:4px 0;">途中で肌の状態が気になったときは使用を中止し、続く場合は医療機関へ相談する</li>
 </ol>
 <p style="margin:14px 0; line-height:1.7;"><span style="color:red"><strong>条件を変えながら試すと、何が合わなかったのかが後から特定できません</strong></span>。<span style="background:linear-gradient(transparent 60%,#FFFF00 60%)"><strong>変数を1つずつ固定することが、試用期間を短くする近道です</strong></span>。</p>
 <h3 style="font-size:20px; font-weight:600; margin:24px 0 12px; line-height:1.3;">買う前に確認しておく条件</h3>
@@ -413,23 +413,23 @@
 <li style="margin:4px 0;"><strong>返品の可否と期間</strong>｜開封後に戻せるか、何日以内か</li>
 <li style="margin:4px 0;"><strong>つめかえの有無</strong>｜続けると決めたあとの入手しやすさ</li>
 </ul>
-<p style="margin:14px 0; line-height:1.7;">オルビス ザ クレンジング オイルの場合、この3項目はそれぞれ、数量限定のトライアルサイズ50mL、開封後30日以内の返品受付、ボトルを洗わずにそのままつめかえられるつめかえ用110mLが該当します。</p>
+<p style="margin:14px 0; line-height:1.7;">オルビス ザ クレンジング オイルの場合、数量限定のトライアルサイズ50mLを用意しており、つめかえ用110mLはボトルを洗わずにそのままつめかえられる設計です（<a href="https://www.orbis.co.jp/small/1201053/" style="color:#0969da; text-decoration:none; border-bottom:1px solid #eaeef2;">オルビス公式</a>）。本体120mLに対してつめかえが110mLなのは、成分特性上ボトルを洗浄せずにつめかえる商品であり、万が一内容物が溢れるのを防ぐためと公式が説明しています（つめかえの際は全量を使い切ってから使用します）。</p>
 <p style="margin:14px 0; line-height:1.7;">なお、購入場所ごとの入手しやすさや価格帯の比較は本記事の範囲外のため、別途整理した記事で扱います。</p>
 <h3 style="font-size:20px; font-weight:600; margin:24px 0 12px; line-height:1.3;">オルビスの見解｜低評価も同じ場所で読める状態にしている理由</h3>
-<p style="margin:14px 0; line-height:1.7;">一般論として、利用者の声は選ぶときの参考になります。<strong>だからこそ、公式クチコミを星別の内訳ごと公開し、★1〜★2の声も同じ場所で読める状態にしています。</strong>低評価に多いのは、洗浄力の強さが自分には合わなかったという指摘です。</p>
-<p style="margin:14px 0; line-height:1.7;">そのうえで、数量限定のトライアルサイズを用意しています。合わない可能性を隠したまま選ばせるより、織り込んで試せる状態をつくるほうが、選び直しの回数を減らすと考えているためです。</p>
+<p style="margin:14px 0; line-height:1.7;">一般論として、利用者の声は選ぶときの参考になります。<strong>だからこそ、公式クチコミを星別の内訳ごと公開し、★1〜★2の声も同じ場所で読める状態にしています。</strong>低評価には、洗浄力の強さが自分には合わなかったという指摘も含まれます。</p>
+<p style="margin:14px 0; line-height:1.7;"><strong>そのうえで、数量限定のトライアルサイズと、開封後でも30日間の返品対応を用意しています。</strong>合わない可能性を隠したまま選ばせるより、織り込んで試せる状態をつくるほうが、選び直しの回数を減らすと考えているためです。</p>
 <p style="margin:14px 0; line-height:1.7;"><strong>Recommend Item</strong><br>オルビス ザ クレンジング オイル<br>まず少量から確かめたい場合は、数量限定のトライアルサイズ50mLがあります。続けると決めたあとは、ボトルを洗わずにつめかえられる110mLに切り替えられます。</p>
 <h2 style="font-size:24px; font-weight:600; margin:32px 0 16px; padding-bottom:8px; border-bottom:1px solid #eaeef2; line-height:1.3;">毛穴が気になるときのクレンジングについてよくある質問</h2>
-<p style="margin:14px 0; line-height:1.7;">選び方を決めたあとに出てきやすい疑問を、公式サイトに掲載された情報に沿って整理します。</p>
+<p style="margin:14px 0; line-height:1.7;">選び方を決めたあとに出てきやすい疑問を、公式の一次情報に沿って整理します。</p>
 <h3 style="font-size:20px; font-weight:600; margin:24px 0 12px; line-height:1.3;">毛穴が気になるとき、クレンジングは毎日使ってよいですか？</h3>
 <p style="margin:14px 0; line-height:1.7;">メイクや日焼け止めを使った日は、毎日落として問題ありません。クレンジングは油性の汚れを落とす工程であり、汚れが残ったまま重ねるほうが負担になります。ただし、メイクをしていない日にまでクレンジングを使う必要はなく、その日は洗顔料だけで足ります。使う量と回数を増やす方向ではなく、使う日を選び分ける方向で調整してください。</p>
 <h3 style="font-size:20px; font-weight:600; margin:24px 0 12px; line-height:1.3;">ウォータープルーフの日焼け止めやマスカラを使った日でも、同じクレンジングで足りますか？</h3>
-<p style="margin:14px 0; line-height:1.7;">顔全体は同じ一本で対応し、目元だけ専用のリムーバーを併用する前提で考えるのが現実的です。オルビス ザ クレンジング オイルはウォータープルーフメイクに対応した設計ですが、公式クチコミには落としきれなかったとする声も掲載されています。落ちにくいメイクの日は、公式の使用方法どおり乾いた手にとってなじませてください。</p>
+<p style="margin:14px 0; line-height:1.7;">顔全体は同じ一本で対応し、目元だけ専用のリムーバーを併用する前提で考えるのが現実的です。オルビス ザ クレンジング オイルはウォータープルーフメイクに対応した設計ですが（<a href="https://www.orbis.co.jp/small/1201053/" style="color:#0969da; text-decoration:none; border-bottom:1px solid #eaeef2;">オルビス公式</a>）、公式クチコミには落としきれなかったとする声も掲載されています。落ちにくいメイクの日は、公式の使用方法どおり乾いた手にとってなじませてください。</p>
 <h3 style="font-size:20px; font-weight:600; margin:24px 0 12px; line-height:1.3;">クレンジングを長い時間なじませるほど毛穴汚れは落ちますか？</h3>
-<p style="margin:14px 0; line-height:1.7;">長くなじませるほど落ちるわけではありません。オルビスの公式使用方法では、手のひら全体に広げてから肌の上で軽くらせんを描くようになじませ、水またはぬるま湯で洗い流す流れを案内しています。時間を延ばすより、量が足りているか、こすっていないかを見直すほうが結果につながります。</p>
+<p style="margin:14px 0; line-height:1.7;">長くなじませるほど落ちるわけではありません。オルビスの公式使用方法では、手のひら全体に広げてから肌の上で軽くらせんを描くようになじませ、水またはぬるま湯で洗い流す流れを案内しています（<a href="https://www.orbis.co.jp/small/1201053/" style="color:#0969da; text-decoration:none; border-bottom:1px solid #eaeef2;">オルビス公式</a>）。時間を延ばすより、量が足りているか、こすっていないかを見直すほうが結果につながります。</p>
 <h3 style="font-size:20px; font-weight:600; margin:24px 0 12px; line-height:1.3;">毛穴が気になる部分だけ、クレンジングの使い方を変えてもよいですか？</h3>
 <p style="margin:14px 0; line-height:1.7;">なじませ方を部分的に変えるのは問題ありません。小鼻など気になる部分だけ、指の腹でゆっくりらせんを描く時間を少し長めにとる程度であれば、他の部分への負担は増えません。ただし、その部分だけ何度も洗い直したり、爪や道具で押し出したりするのは避けてください。回数を重ねる方向ではなく、1回の使い方をそろえる方向で調整するのがおすすめです。</p>
-<p style="margin:14px 0; line-height:1.7;">毛穴悩みの手前にある考え方や、剤形以外の選択肢まで含めた整理は、<a href="/column/cleansing-osusume/" style="color:#0969da; text-decoration:none; border-bottom:1px solid #eaeef2;">毛穴悩み別のクレンジング選びで迷いが残る場合のクレンジング選び全体の整理</a>を参照してください。</p>
+<p style="margin:14px 0; line-height:1.7;">毛穴悩みの手前にある考え方や、剤形以外の選択肢まで含めた整理は、<a href="/column/cleansing-osusume/" style="color:#0969da; text-decoration:none; border-bottom:1px solid #eaeef2;">毛穴悩み別のクレンジング選びで解決しない場合のクレンジング選び全体の整理</a>を参照してください。</p>
 <h2 style="font-size:24px; font-weight:600; margin:32px 0 16px; padding-bottom:8px; border-bottom:1px solid #eaeef2; line-height:1.3;">まとめ</h2>
 <p style="margin:14px 0; line-height:1.7;">毛穴が気になるときのクレンジングは、目立ち方のタイプで優先軸を決め、剤形を4つの軸で絞り、最後に使う量と手の濡れ具合を自分の習慣に合わせる——この順番で選ぶと迷いが減ります。洗浄で変えられるのは汚れの部分であり、毛穴の大きさそのものは対象外です。この線引きを先にしておくことが、買い替えを繰り返さないための一番の基準になります。合わない可能性を織り込んで、少量・部分から試してみませんか。</p>
 <!-- wp:group {"style":{"border":{"radius":"16px","color":"#E4C06C","style":"solid","width":"1px"},"spacing":{"padding":{"top":"24px","right":"20px","bottom":"24px","left":"20px"}}},"layout":{"type":"constrained"}} -->
@@ -438,7 +438,7 @@
 <p class="has-text-align-center" style="font-weight:700">＼ 送料無料でお届け ／</p>
 <!-- /wp:paragraph -->
 <!-- wp:paragraph {"align":"center"} -->
-<p class="has-text-align-center">初回は送料無料でお届けします。<br>＊オルビス初めての方限定</p>
+<p class="has-text-align-center">開封後でも30日間の返品に対応しているので、実際に使ってから判断できます。</p>
 <!-- /wp:paragraph -->
 <!-- wp:buttons {"layout":{"type":"flex","justifyContent":"center"}} -->
 <div class="wp-block-buttons is-content-justification-center is-layout-flex wp-container-content-justification-center wp-block-buttons-is-layout-flex"><!-- wp:button {"style":{"border":{"radius":"999px"},"color":{"background":"#9C2E27","text":"#ffffff"}}} -->
@@ -446,6 +446,6 @@
 <!-- /wp:button --></div>
 <!-- /wp:buttons -->
 </div>
-<!-- /wp:group --><p style="margin:14px 0; line-height:1.7;">*1 洗浄により毛穴を目立たなくする<br>*2 乾燥による<br>*3 ポーラ化成独自の（Ｃ１２－２０）アルキルグルコシド（保湿）で形成するミセル<br>*4 ポーラ化成独自の（Ｃ１２－２０）アルキルグルコシド（保湿）で形成するミセルから、汚れをはね返す水の膜をつくる技術が日本初（2024年12月時点、J-GLOBALによる自社調べ）<br>*5 一般的なグルー（シアノアクリレート系）を想定した自社テストを行っています</p>
+<!-- /wp:group --><p style="margin:14px 0; line-height:1.7;">*1 洗浄により毛穴を目立たなくする<br>*2 乾燥や汚れによる<br>*3 ポーラ化成独自の（Ｃ１２－２０）アルキルグルコシド（保湿）で形成するミセル<br>*4 ポーラ化成独自の（Ｃ１２－２０）アルキルグルコシド（保湿）で形成するミセルから、汚れをはね返す水の膜をつくる技術が日本初（2024年12月時点、J-GLOBALによる自社調べ）<br>*5 一般的なグルー（シアノアクリレート系）を想定した自社テストを行っています</p>
 </body>
 </html>
